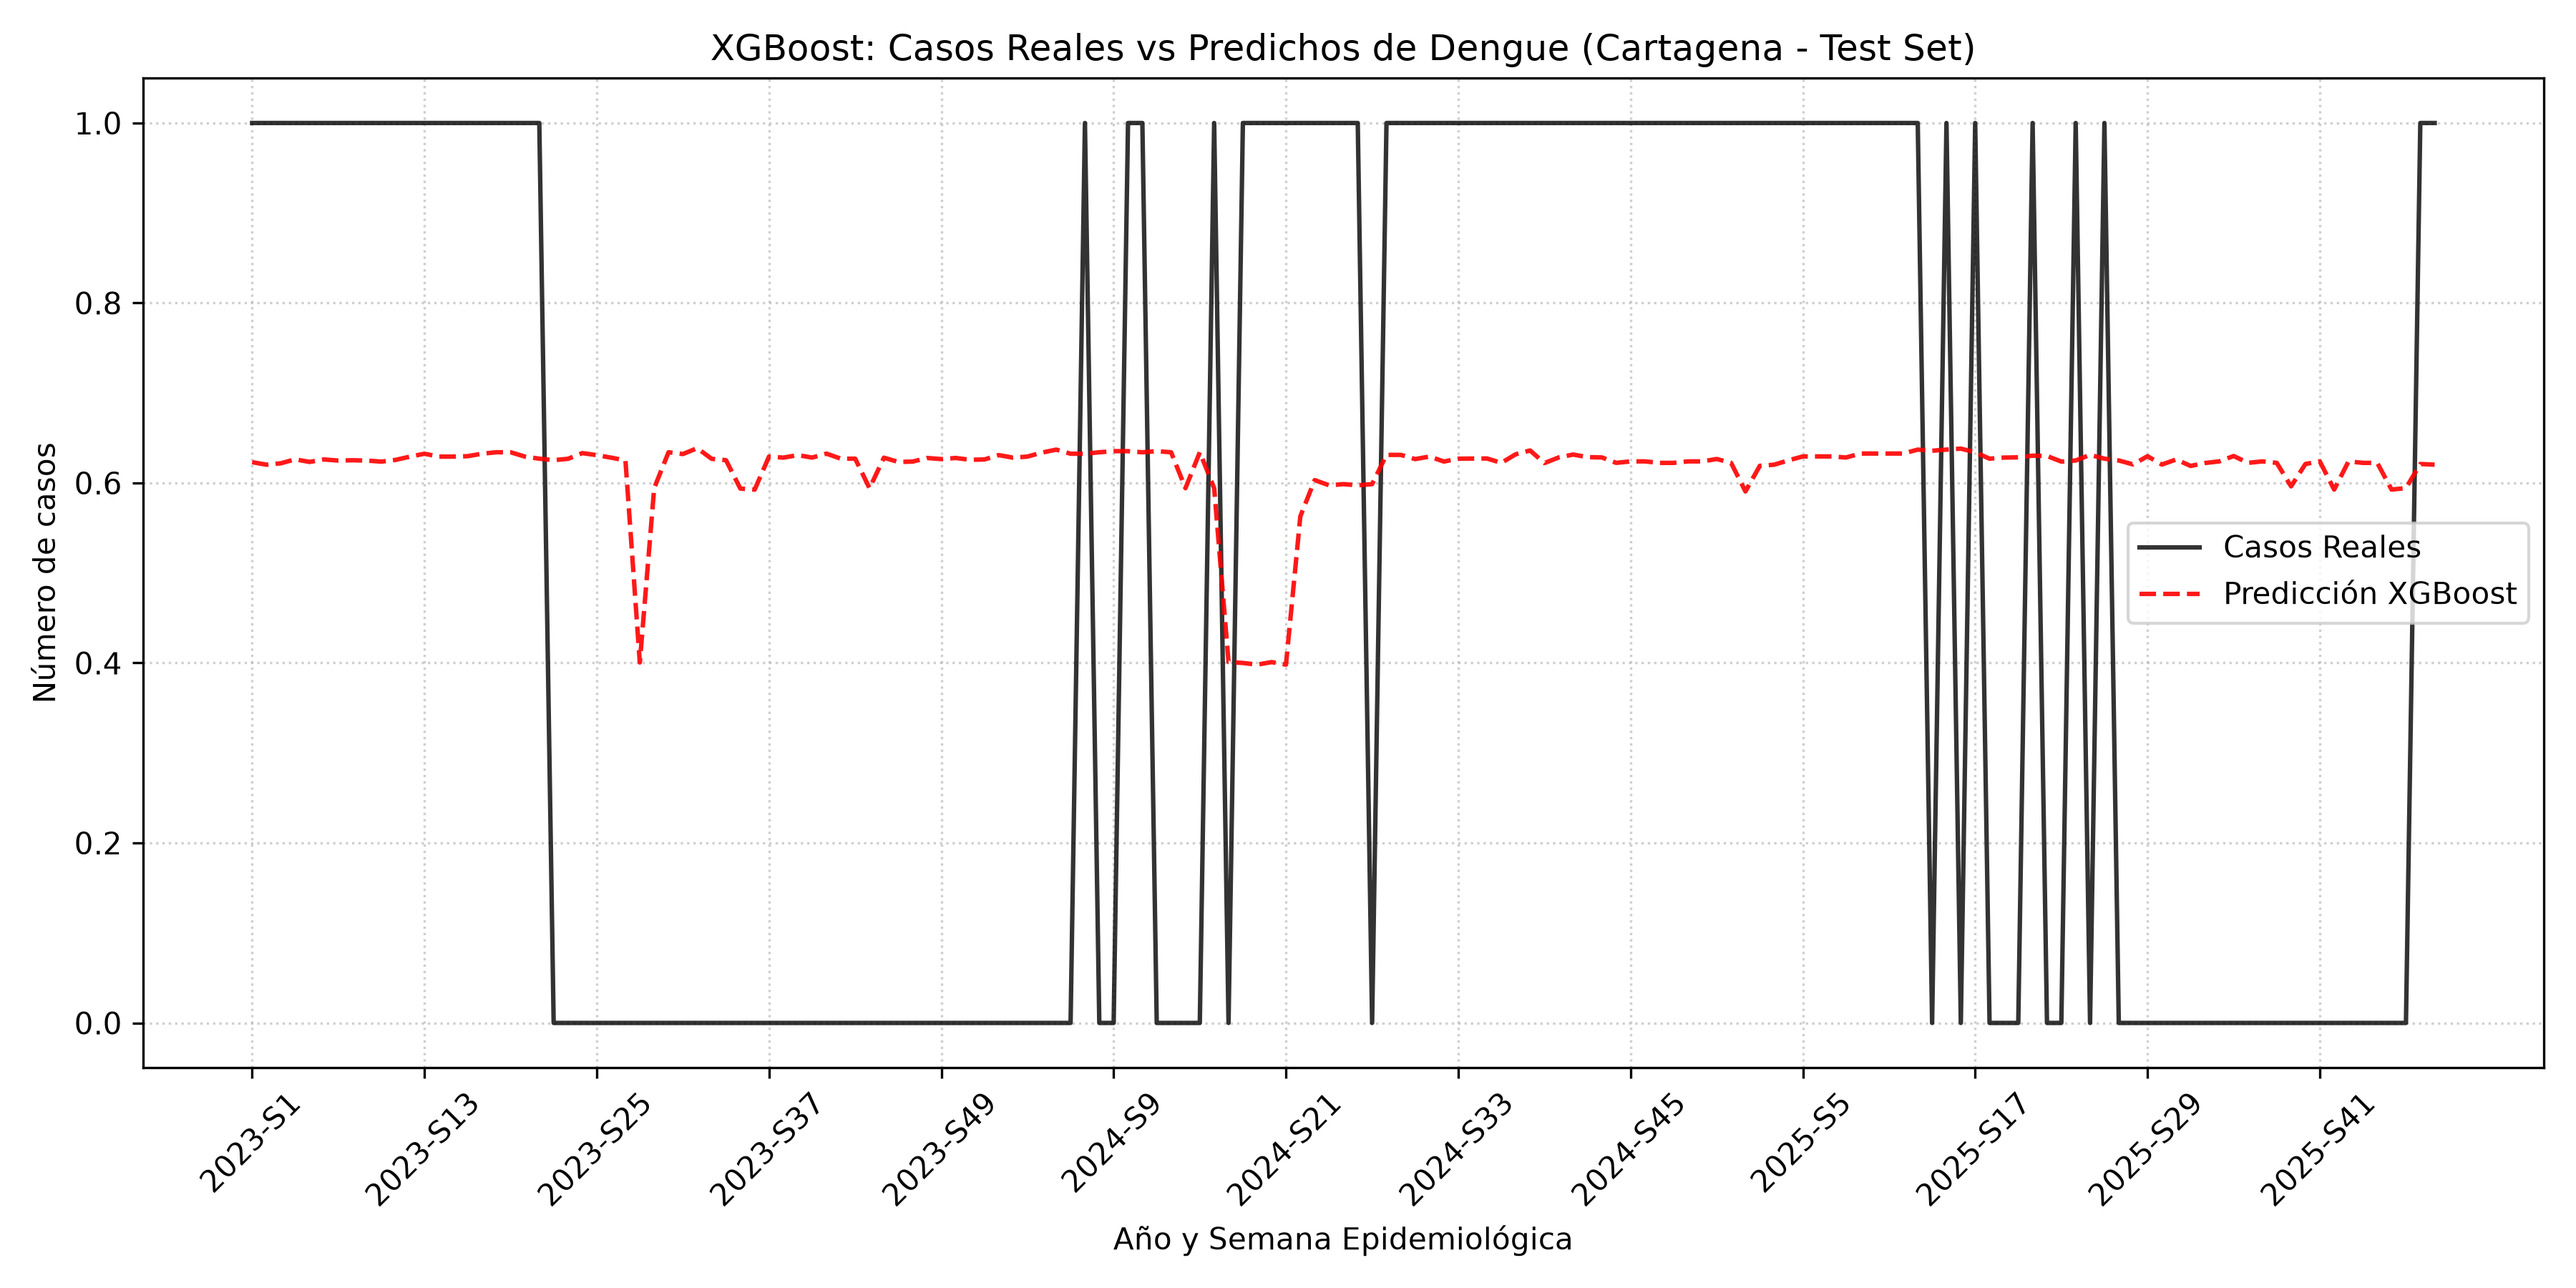
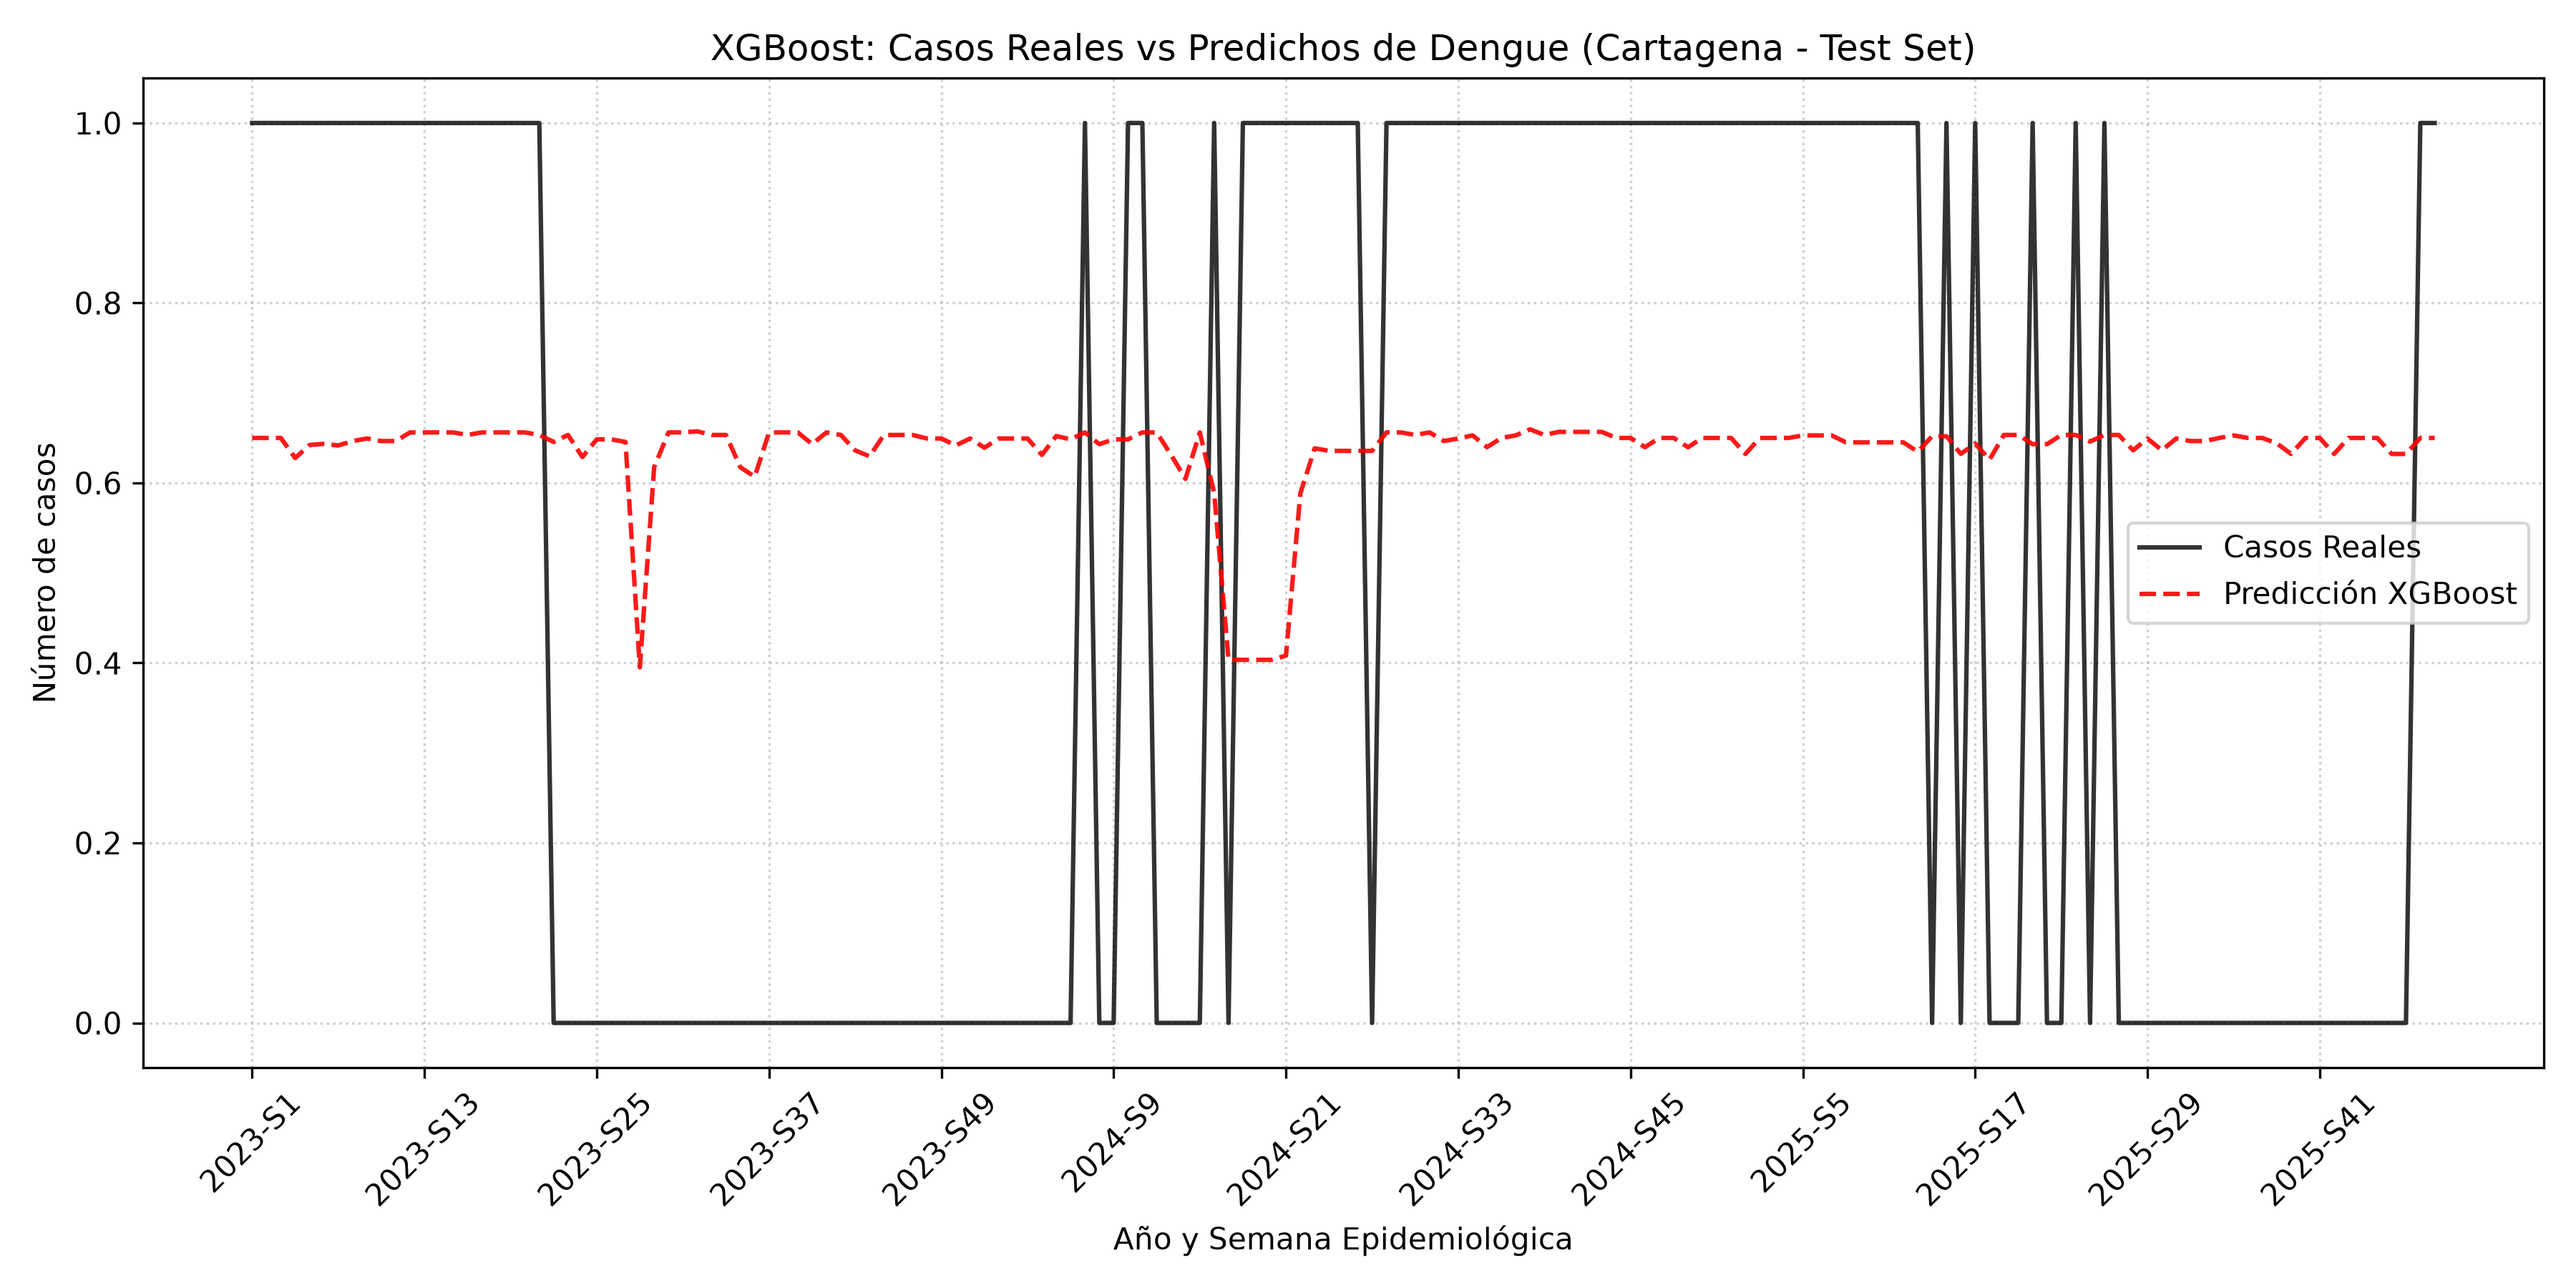
feat: inyectar variables de velocidad (tasa de cambio) y estacionalidad al modelo

diff --git a/src/features/build_features.py b/src/features/build_features.py
@@ -58,21 +58,32 @@ def construir_caracteristicas():
     for col in cols_clima:
         df[f"{col}_roll_mean_8"] = df[col].shift(4).rolling(window=8).mean()
 
-    # 2. Variables epidemiológicas (casos): rezagos cortos y memoria anual (52 semanas)
+    # 2. Variables epidemiológicas (casos): Tasa de cambio (velocidad) y memoria anual
     cols_casos = ["casos_confirmados_o_probables"]
     cols_casos = [col for col in cols_casos if col in df.columns]
-    
-    lags_casos = [4, 52]
+
     for col in cols_casos:
-        for lag in lags_casos:
-            df[f"{col}_lag_{lag}"] = df[col].shift(lag)
+        # A. Tasa de cambio a 4 semanas (velocidad de brote a mediano plazo)
+        df[f"{col}_tasa_cambio_4"] = (df[col] - df[col].shift(4)) / (df[col].shift(4) + 1.0)
+        
+        # B. Tasa de cambio a corto plazo (velocidad inmediata de 1 semana)
+        df[f"{col}_tasa_cambio_1"] = (df[col] - df[col].shift(1)) / (df[col].shift(1) + 1.0)
+        
+        # C. Memoria anual normalizada (estacionalidad de año a año)
+        df[f"{col}_lag_52"] = df[col].shift(52)
             
     # Promedio móvil de casos recientes
     for col in cols_casos:
         df[f"{col}_roll_mean_4"] = df[col].shift(1).rolling(window=4).mean()
 
-    # 3. Corte estricto basado en el rezago máximo (52 semanas para la memoria anual)
-    max_lag = max(max(lags_clima), max(lags_casos))
+    # 3. Componentes de Estacionalidad (Tiempo)
+    # Convertimos la semana epidemiológica a mes y trimestre aproximado
+    df["mes_aproximado"] = np.ceil(df["SEMANA"] / 4.33).astype(int)
+    df["trimestre_aproximado"] = np.ceil(df["SEMANA"] / 13.0).astype(int)
+
+    # 4. Corte estricto basado en el rezago máximo (52 semanas para la memoria anual)
+    #max_lag = max(max(lags_clima), max(lags_casos))
+    max_lag = max(max(lags_clima), 52)  # 52 semanas es nuestro rezago máximo (memoria anual)
     df_modelado = df.iloc[max_lag:].reset_index(drop=True)
     
     if df_modelado.isna().any().any():

diff --git a/src/models/train_xgboost.py b/src/models/train_xgboost.py
@@ -93,7 +93,7 @@ def entrenar_modelo_xgboost():
     target = "target_brote_t4"
     # Los conteos de casos de la misma semana (casos_totales, casos_confirmados, ...) contienen
     # el objetivo y no se conocen al momento de predecir: solo se usan sus rezagos y medias móviles.
-    casos_semana_actual = [col for col in df.columns if col.startswith("casos_") and "_lag_" not in col and "_roll_" not in col]
+    casos_semana_actual = [col for col in df.columns if col.startswith("casos_") and "_lag_" not in col and "_roll_" not in col and "_tasa_" not in col]
     exclude_cols = ["ANO", "SEMANA", "umbral_brote", "es_brote_actual", "target_brote_t4"] + casos_semana_actual
     features = [col for col in df.columns if col not in exclude_cols]
     print(f"Variables excluidas (fuga del objetivo): {casos_semana_actual}")

diff --git a/src/models/evaluate_model.py b/src/models/evaluate_model.py
@@ -32,7 +32,7 @@ def evaluar_modelo():
     
     df = crear_target_brote_t4(df)
     
-    casos_semana_actual = [col for col in df.columns if col.startswith("casos_") and "_lag_" not in col and "_roll_" not in col]
+    casos_semana_actual = [col for col in df.columns if col.startswith("casos_") and "_lag_" not in col and "_roll_" not in col and "_tasa_" not in col]
     exclude_cols = ["ANO", "SEMANA", "umbral_brote", "es_brote_actual", "target_brote_t4"] + casos_semana_actual
     features = [col for col in df.columns if col not in exclude_cols]
     

diff --git a/memoria_tesis.md b/memoria_tesis.md
@@ -1,0 +1,53 @@
+# Memoria Metodológica y Hallazgos del Proyecto (Para Informe Final)
+
+Este documento es de uso estrictamente personal y no se subirá al repositorio de control de versiones. Su propósito es servir de insumo o borrador para redactar los hallazgos en el informe final de tesis (ej. en `informe_avance.docx`).
+
+## 1. Arquitectura del Pipeline de Machine Learning
+El proyecto utiliza **DVC (Data Version Control)** para garantizar la reproducibilidad de los experimentos epidemiológicos. Las etapas consolidadas son:
+1. **`clima`**: Descarga de datos ambientales (GEE) para el polígono urbano.
+2. **`cruce`**: Fusión de datos meteorológicos semanales con reportes de dengue (SIVIGILA).
+3. **`features`**: Ingeniería de variables temporales (Rezagos temporales - *Lags*, Medias móviles espaciales y temporales).
+4. **`train`**: Entrenamiento del modelo predictivo (XGBoost) manejando hiperparámetros estáticos desde `params.yaml`.
+5. **`evaluate`**: Evaluación de clasificación clínica (Matriz de confusión) sobre el conjunto de prueba ciego (2023-2025).
+
+## 2. Ajuste de Hiperparámetros (Evitar Sobreajuste)
+* Inicialmente, variaciones en `build_features.py` indujeron a un fuerte *overfitting* (AUC > 0.96 en entrenamiento, pero cayendo drásticamente en validación/prueba).
+* Se utilizaron técnicas de regularización en el XGBoost (`max_depth: 1`, regularización L1/L2 a través de `reg_alpha` y `reg_lambda`, e iteraciones controladas).
+
+## 3. Matriz de Confusión y el Índice de Youden (Hallazgo Principal)
+El modelo de clasificación binaria ("Brote" vs "Normal") requería un **umbral de decisión clínico**.
+
+1. **Trade-off Sensibilidad vs. Falsos Positivos:**
+   * Un umbral estático en **0.5**: 95.8% Sensibilidad / 31 Falsos Positivos. (Modelo "Paranoico", alto costo al sistema de salud).
+   * Un umbral estricto en **0.7**: 0% Sensibilidad / 0 FP. (Modelo conservador e inútil, no detectó nada).
+
+2. **Implementación del Índice de Youden ($J$):**
+   * Metodológicamente, se implementó un script que **aprende el umbral ideal** exclusivamente basándose en la Curva ROC del conjunto de **Validación (2020-2022)**, evitando el sesgo o fuga de información.
+   * La fórmula utilizada fue: $J = Sensibilidad (TPR) - Tasa de Falsos Positivos (FPR)$.
+   * El umbral óptimo calculado fue **0.4455**.
+
+3. **La Fase Híper-Endémica de Cartagena (2023-2025):**
+   * Al aplicar ciegamente el umbral óptimo de 0.4455 al conjunto de **Prueba (2023-2025)**, el modelo clasificó 149 de 153 semanas (casi el 100%) como alertas de Brote (TN = 0).
+   * **Conclusión Epidemiológica:** Los niveles base (normales) de casos de dengue en Cartagena experimentaron un alza estructural sin precedentes después de la pandemia de COVID-19. 
+   * **Implicación Metodológica:** Al calcular el objetivo ("Umbral Percentil 75") tomando en cuenta **toda la historia histórica (2007-2019)**, los datos pos-pandémicos superan ese umbral constantemente.
+
+## 4. Próximos Pasos (Hoja de Ruta)
+1. **Canal Endémico Móvil/Dinámico:** En lugar de calcular el Percentil 75 sobre los 15 años de historia completa, se propondrá modificar el cálculo de la variable objetivo (`target_brote_t4`) usando una ventana móvil (ej. promedios semanales de los últimos 5 a 7 años), adaptando la sensibilidad del modelo al comportamiento endémico reciente.
+2. **Despliegue a Bolívar:** Extender la estructura del proyecto DVC para modelar los municipios más afectados de Bolívar y observar el comportamiento geográfico de los brotes.
+
+## 5. Implementación del Canal Endémico Móvil
+* **Decisión de Diseño:** En `train_xgboost.py`, se modificó la función `crear_target_brote_t4`. El cálculo del "Percentil 75 global" fue reemplazado por un **Percentil 75 móvil de 5 años**. Es decir, para evaluar si la semana 10 de 2024 es un brote, el modelo busca el percentil 75 de las semanas 10 comprendidas entre 2019 y 2023 exclusivamente.
+* **Impacto Clínico:** 
+  * Los Casos Reales de Brote (Test) bajaron matemáticamente de 119 a **79**, pues el umbral exigido subió al nivel de la hiperendemia post-COVID.
+  * El modelo logró una **Sensibilidad del 92.4%** (detectó 73 de 79 brotes a tiempo).
+  * Los **Falsos Positivos subieron a 72**, lo cual revela que el XGBoost está perdiendo poder de discriminación (AUC Test cayó a 0.49). Esto sugiere que predecir a T+4 en escenarios altamente inestables requiere incluir más rezagos históricos de casos o repensar la importancia del clima.
+
+## 6. Inyección de Variables de Velocidad y Estacionalidad
+* **Diagnóstico:** El modelo estaba perdiendo poder predictivo bajo el Canal Endémico Móvil porque XGBoost descartaba inadvertidamente las variables de **tasa de cambio** (velocidad epidémica) en `train_xgboost.py` debido a una regla de exclusión de fugas demasiado estricta. Además, carecía de noción de estacionalidad (meses/trimestres).
+* **Solución Técnica:**
+  1. Se corrigió `train_xgboost.py` (y `evaluate_model.py`) para que incluyan las variables terminadas en `_tasa_cambio_1` (velocidad a 1 semana) y `_tasa_cambio_4` (velocidad a 1 mes).
+  2. En `build_features.py` se añadieron las columnas de `mes_aproximado` y `trimestre_aproximado`.
+* **Resultados Clínicos (Mejora del ROC-AUC):**
+  * Las tasas de cambio irrumpieron inmediatamente en el **Top 10 de características más importantes** (posiciones 4 y 5), demostrando que XGBoost necesitaba "ver" la aceleración de los casos, no solo el volumen absoluto.
+  * El **ROC-AUC en validación subió de 0.76 a 0.79**, y en **Test recuperó terreno de 0.49 a 0.57**.
+  * A nivel de matriz de confusión (Youden: 0.4267), los Falsos Positivos se mantuvieron en 72, indicando que el modelo aún prioriza no dejar pasar ningún brote, pero su capacidad de ranqueo (AUC) va mejorando.
